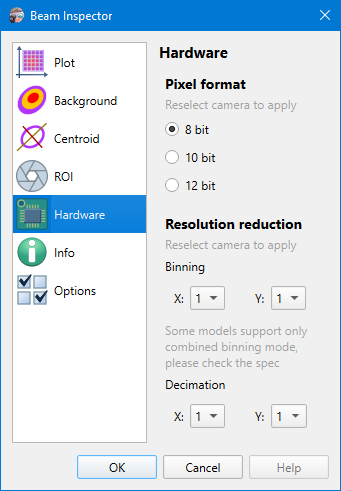
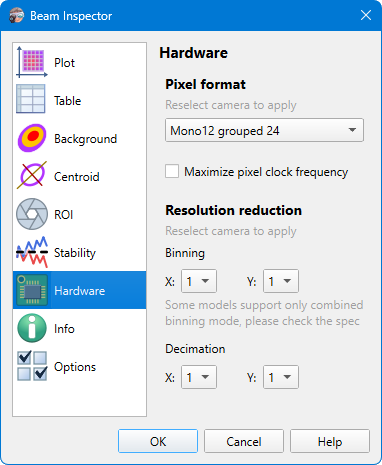
add docs for unsupporetd mode, save date with raw files

diff --git a/src/cameras/CameraTypes.cpp b/src/cameras/CameraTypes.cpp
@@ -3,6 +3,7 @@
 #include "core/OriFloatingPoint.h"
 
 #include <QApplication>
+#include <QDateTime>
 #include <QRandomGenerator>
 #include <QSettings>
 
@@ -279,3 +280,21 @@ QString CameraCommons::supportedImageFilters()
     return qApp->tr("Images (%1);;Raw frame data (*.%2);;All Files (*.*)")
         .arg(filters.join(' '), RawFrameData::fileExt());
 }
+
+//------------------------------------------------------------------------------
+//                                DateUtils
+//------------------------------------------------------------------------------
+
+namespace DateUtils {
+
+QString nowIsoStr()
+{
+    // Get the current local date-time 
+    QDateTime now = QDateTime::currentDateTime();
+    // Convert it to a fixed offset representation so the timezone prints
+    now = now.toOffsetFromUtc(now.offsetFromUtc());
+    // Format to ISO 8601 string (Includes timezone offset e.g., "+03:00")
+    return now.toString(Qt::ISODate);
+}
+
+} // namespace DateUtils

diff --git a/src/cameras/CameraTypes.h b/src/cameras/CameraTypes.h
@@ -168,6 +168,8 @@ struct RawFrameData
     static QString infoFileName(const QString &fileName);
     static QString fileExt() { return QStringLiteral("birf"); }
     static QString infoFileExt() { return QStringLiteral("info"); }
+    static QString keyApp() { return QStringLiteral("application"); }
+    static QString keyDate() { return QStringLiteral("date"); }
     static QString keyWidth() { return QStringLiteral("width"); }
     static QString keyHeight() { return QStringLiteral("height"); }
     static QString keySize() { return QStringLiteral("size"); }
@@ -260,5 +262,10 @@ struct PixelFormat {
 };
 inline bool operator == (int c, const PixelFormat &fmt) { return c == fmt.code; }
 inline bool operator == (const PixelFormat &f1, const PixelFormat &f2) { return f1.code == f2.code; }
+
+namespace DateUtils {
+QString nowIsoStr();
+}
+
 
 #endif // CAMERA_TYPES_H

diff --git a/src/plot/PlotExport.cpp b/src/plot/PlotExport.cpp
@@ -2,7 +2,6 @@
 
 #include "app/HelpSystem.h"
 #include "app/ImageUtils.h"
-
 #include "cameras/CameraTypes.h"
 #include "widgets/FileSelector.h"
 
@@ -336,6 +335,8 @@ void exportImageDlg(const ExportImgArg &arg)
         f.close();
         
         QSettings s(RawFrameData::infoFileName(props.fileName), QSettings::IniFormat);
+        s.setValue(RawFrameData::keyApp(), QString("%1 %2").arg(qApp->applicationName(), qApp->applicationVersion()));
+        s.setValue(RawFrameData::keyDate(), DateUtils::nowIsoStr());
         s.setValue(RawFrameData::keyWidth(), w);
         s.setValue(RawFrameData::keyHeight(), h);
         s.setValue(RawFrameData::keySize(), arg.raw->data.size());

diff --git a/src/windows/PlotWindow.cpp b/src/windows/PlotWindow.cpp
@@ -670,6 +670,13 @@ void PlotWindow::showCamConfig(bool replot, bool autozoom)
 
     _statusBar->setText(STATUS_CAMERA, _camera->name(), _camera->descr());
     _statusBar->setText(STATUS_RESOLUTION, _camera->resolutionStr());
+    if (_camera->bpp() == 0) {
+        _statusBar->setStyleSheet(STATUS_RESOLUTION, QStringLiteral("QLabel{color:red}"));
+        _statusBar->setHint(STATUS_RESOLUTION, tr("Decoding is not supported"));
+    } else {
+        _statusBar->setStyleSheet(STATUS_RESOLUTION, {});
+        _statusBar->setHint(STATUS_RESOLUTION, {});
+    }
 
     const auto &c = _camera->config();
     _actionUseRoi->setChecked(c.roiMode == ROI_SINGLE);

diff --git a/src/app/AppSettings.cpp b/src/app/AppSettings.cpp
@@ -178,7 +178,8 @@ bool AppSettings::edit()
         ConfigPage(cfgIds, tr("IDS Camera"), ":/toolbar/camera")
             .withHelpTopic("app_settings_ids"),
     #endif
-        ConfigPage(cfgDbg, tr("Debug"), ":/toolbar/bug"),
+        ConfigPage(cfgDbg, tr("Debug"), ":/toolbar/bug")
+            .withHelpTopic("app_settings_debug"),
         ConfigPage(cfgOpts, tr("Options"), ":/toolbar/options")
             .withHelpTopic("app_settings_opts"),
         ConfigPage(cfgCrosshair, tr("Crosshairs"), ":/toolbar/crosshair")

diff --git a/bin/help/cam_settings_hard.md b/bin/help/cam_settings_hard.md
@@ -12,7 +12,9 @@ Camera settings are stored on a per-camera basis, so when another [camera is sel
 
 ### Pixel format
 
-[Bit depth](https://www.1stvision.com/cameras/IDS/IDS-manuals/en/basics-bit-depth.html) is the number of bits used to code the color of a single pixel. For IDS cameras, supported formats are `Mono8` (8 bit), `Mono10G40` (10 bit), and `Mono12G24` (12 bit). See camera specs and [official documentation](https://www.1stvision.com/cameras/IDS/IDS-manuals/en/basics-monochrome-pixel-formats.html) for details.
+[Pixel format](https://www.1stvision.com/cameras/IDS/IDS-manuals/en/basics-image-color-formats.html) defines a way how camera packs pixel data into resulting byte array. For IDS cameras, supported formats are `Mono8` (8 bit), `Mono10` and `Mono10G40` (10 bit), `Mono12` and `Mono12G24` (12 bit). [Bit depth](https://www.1stvision.com/cameras/IDS/IDS-manuals/en/basics-bit-depth.html) is the number of bits used to code the color of a single pixel. See camera specs and [official documentation](https://www.1stvision.com/cameras/IDS/IDS-manuals/en/basics-monochrome-pixel-formats.html) for details.
+
+By default, this list shows all formats that the camera can provide and the app can decode and display. In a special debug mode activated via [application settings](./app_settings_debug.md), it is possible to select a pixel format that cannot be decoded and processed. For unsupported pixel formats, the app still receives data from the camera, and it's possible to save [raw frames](./export_raw.md) for some external processing. Unsupported items are marked with an exclamation icon in the list. When such an unsupported format is selected, the [status bar](./status_bar.md) displays frame resolution in <span style="color:red">red color</span> and shows zero bit depth.
 
 After changing the option, re-select the camera in the [camera selector](./cam_selector.md) to apply.
 

diff --git a/bin/help/export_raw.md b/bin/help/export_raw.md
@@ -4,7 +4,11 @@
 ► File ► Export Raw Image [F6]
 ```
 
-Saves the latest captured frame into a file without any scaling and processing. Use the Select button to specify a target file name and image format. PNG, JPG, and PGM formats are supported. Note that JPEG images have lossy compression and are not recommended for scientific data.
+Saves the latest captured frame into a file without any scaling and processing. Use the "Select" button to specify a target file name and image format. PNG, JPG, and PGM formats are supported. Note that JPEG images have lossy compression and are not recommended for scientific data.
+
+In addition, images can be saved as a plain byte array, how they are received from the camera and have not been processed by the app in any way. Select the `BIRF` file extension (Beam Inspector Raw Frame) to get such a file. Note that also a `*.birf.info` file is automatically created, which contains readable information about the saved frame.
+
+When a special debug mode is activated via [application settings](./app_settings_debug.md), the app can even receive frames that it doesn't understand how to decode. But they still can be saved for later processing, e.g., by a custom script.
 
 ![Screenshot](./img/export_raw.png)
 

diff --git a/bin/help/status_bar.md b/bin/help/status_bar.md
@@ -16,6 +16,8 @@ Displays model name and shortened serial number of the [selected camera](./cam_s
 
 Shows pixel size and the bit depth of [camera frame](./cam_settings_hard.md) or loaded [static image](./static_img.md).
 
+If this section is shown in <span style="color:red">red color</span>, this means you have selected a pixel format that cannot be decoded and processed. This is possible in a special debug mode activated via [application settings](./app_settings_debug.md). For unsupported pixel formats, the app still receives data from the camera and it's possible to save [raw frames](./export_raw.md) for some external processing.
+
 ### ROI
 
 Shows the region size when [ROI is enabled](./cam_settings_roi.md). The icon turns red when the region does not fit for loaded image or selected camera resolution.

diff --git a/bin/help/app_settings_debug.md b/bin/help/app_settings_debug.md
@@ -1,0 +1,15 @@
+# App Preferences
+
+## Debug
+
+```
+► File ► Preferences ► Debug
+```
+
+![Screenshot](./img/app_settings_debug.png)
+
+### Cameras
+
+#### Allow to select any pixel format
+
+The flag activates a debug mode in which it is possible to [choose any pixel format](./cam_settings_hard.md) provided by the camera even if it is unknown how to decode and process it. When such a format is selected, the app will receive data from the camera but not be able to display and calculate beam properties. But it's still possible to [save raw frames](./export_raw.md) for later processing, e.g., by a custom script, which is the main goal of this mode.
